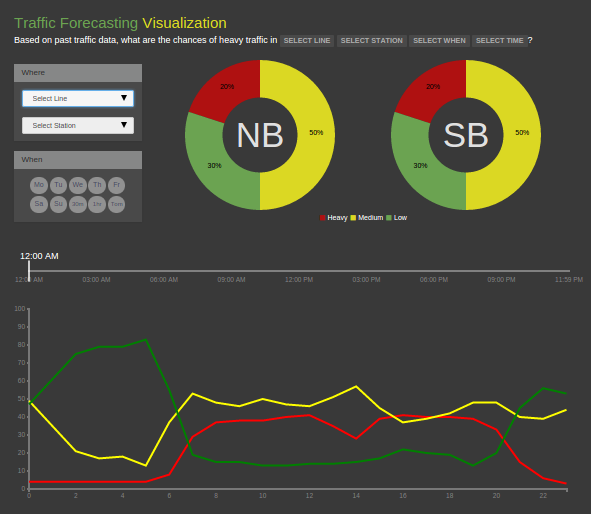
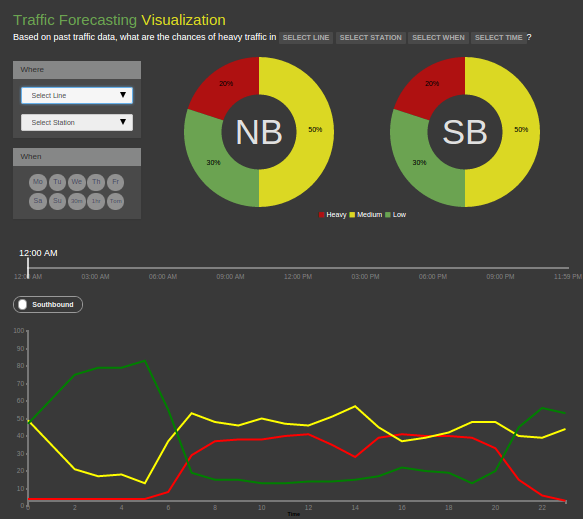
line plt fixes

diff --git a/js/line_plot.js b/js/line_plot.js
@@ -1,90 +1,112 @@
 // InitChart();
 d3.csv("/datavis/data/04_data/s11d04.csv", function(error, data) {
-  //   data.forEach(function(d) {
-  //       d.Hour = parseInt(d.Hour);
-  //       d.nHigh = +d.nHigh; });
-  InitChart(data);
+    //   data.forEach(function(d) {
+    //       d.Hour = parseInt(d.Hour);
+    //       d.nHigh = +d.nHigh; });
+    InitChart(data);
 }) ;
 function InitChart(data) {
-  var vis = d3.select("#visualisation"),
+    var vis = d3.select("#visualisation"),
     WIDTH = 1125,
     HEIGHT = 400,
     MARGINS = {
-      top: 20,
-      right: 20,
-      bottom: 20,
-      left: 30
+        top: 20,
+        right: 20,
+        bottom: 30,
+        left: 30
     },
-    xRange = d3.scale.linear().range([MARGINS.left, WIDTH - MARGINS.right]).domain([0,23]),
+    xRange = d3.scale.linear()
+    .range([MARGINS.left, WIDTH - MARGINS.right])
+    .domain([0,23]),
 
-    yRange = d3.scale.linear().range([HEIGHT - MARGINS.top, MARGINS.bottom]).domain([0,100]),
+    yRange = d3.scale.linear()
+    .range([HEIGHT - MARGINS.top, MARGINS.bottom])
+    .domain([0,100]),
 
     xAxis = d3.svg.axis()
       .scale(xRange)
       .tickSize(5)
       .tickSubdivide(true),
 
+
     yAxis = d3.svg.axis()
-      .scale(yRange)
-      .tickSize(5)
-      .orient("left")
-      .tickSubdivide(true);
+    .scale(yRange)
+    .tickSize(5)
+    .orient("left")
+    .tickSubdivide(true);
 
 
-  vis.append("svg:g")
+    vis.append("svg:g")
     .attr("class", "x axis")
     .attr("stroke-width", 4)
     .attr("transform", "translate(0," + (HEIGHT - MARGINS.bottom) + ")")
     .call(xAxis);
 
-  vis.append("svg:g")
+    vis.append("text")      // text label for the x axis
+    .attr("class", "x label")
+    .attr("x", WIDTH/2-1)
+    .attr("y", HEIGHT)
+    .style("text-anchor", "middle")
+    .text("Time");
+
+    vis.append("svg:g")
     .attr("stroke-width", 4)
     .attr("class", "y axis")
     .attr("transform", "translate(" + (MARGINS.left) + ",0)")
     .call(yAxis);
 
+    vis.append("text")
+    .attr("class", "y label")
+        .attr("transform", "rotate(-90)")
+        .attr("y", 0 - margin.left)
+        .attr("x",0 - (height / 2))
+        .attr("dy", "1em")
+        .style("text-anchor", "end")
+        .text("Percentage:");
+
+
     var line = d3.svg.line()
     .x(function (d) {
-      return xRange(d.hour);
+        return xRange(d.hour);
     })
     .y(function (d) {
-      return yRange(d.nHigh);
+        return yRange(d.nHigh);
     })
     .interpolate('linear');
 
-  var line2= d3.svg.line()
-  .x(function (d) {
-    return xRange(d.hour);
-  })
-  .y(function (d) {
-    return yRange(d.nMed);
-  })
-  .interpolate('linear');
+    var line2= d3.svg.line()
+    .x(function (d) {
+        return xRange(d.hour);
+    })
+    .y(function (d) {
+        return yRange(d.nMed);
+    })
+    .interpolate('linear');
 
-  var line3= d3.svg.line()
-  .x(function (d) {
-    return xRange(d.hour);
-  })
-  .y(function (d) {
-    return yRange(d.nLow);
-  })
-  .interpolate('linear');
+    var line3= d3.svg.line()
+    .x(function (d) {
+        return xRange(d.hour);
+    })
+    .y(function (d) {
+        return yRange(d.nLow);
+    })
+    .interpolate('linear');
 
 
 
-vis.append("svg:path")
+    vis.append("svg:path")
     .datum(data)
     .attr("d", line(data))
     .attr("stroke", "red")
     .attr("stroke-width", 4)
     .attr("fill", "none");
 
-vis.append("svg:path")
+    vis.append("svg:path")
     .attr("d", line2(data))
     .attr("stroke", "yellow")
     .attr("stroke-width", 4)
     .attr("fill", "none");
-vis.append("svg:path")
+    vis.append("svg:path")
     .attr("d", line3(data))
     .attr("stroke", "green")
     .attr("stroke-width", 4)

diff --git a/index.html b/index.html
@@ -93,7 +93,7 @@
                 <span class="onoffswitch-switch"></span>
             </label>
         </div>
-        <svg id="visualisation" width="1200" height="400"></svg>
+        <svg id="visualisation" width="1250" height="500"></svg>
       </div>
     </div><!--container-->
 
